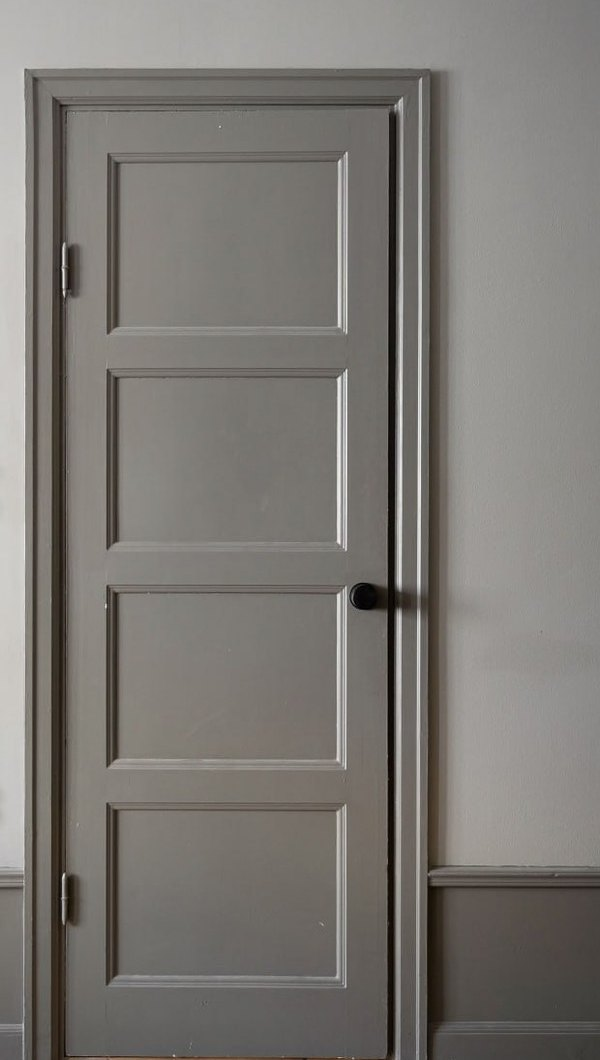
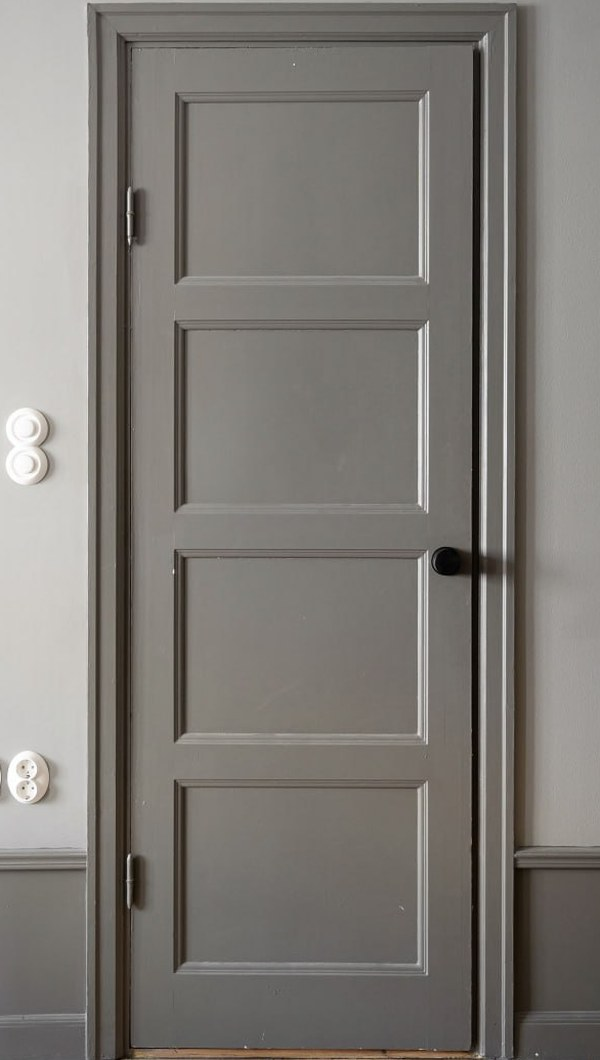
[agent] правка: VELIA — новые двери Lumen 06, Classic 07, слайд, подписи

diff --git a/velia/index.html b/velia/index.html
@@ -68,19 +68,19 @@ html{scroll-behavior:smooth}section,footer{scroll-margin-top:0}.drum h2{position
 @media(max-width:800px){.dc{flex-basis:17vw}.dc:nth-child(n+5){display:none}}
 </style></head><body>
 <div id="splash" class="grad"><div class="lgw"><span class="lg"><svg viewBox="0 0 30 24" aria-hidden="true"><g fill="currentColor"><rect x="0" y="4" width="2" height="20"/><rect x="5" y="2" width="2" height="22"/><rect x="10" y="0" width="2" height="24"/><rect x="15" y="0" width="2" height="24"/><rect x="20" y="2" width="2" height="22"/><rect x="25" y="4" width="2" height="20"/></g></svg><span class="word">Velia</span></span></div><div class="tag">Двери, которые открывают пространство</div></div>
-<section class="hero grad" id="hero"><div class="slides" id="sl"><i style="background-image:url(img/collection_b.jpg)"></i><i style="background-image:url(img/collection_a.jpg)"></i><i style="background-image:url(img/collection_a.jpg);background-position:30% center"></i></div><video id="hv" muted playsinline webkit-playsinline x5-playsinline disablepictureinpicture disableremoteplayback controlslist="nodownload nofullscreen noremoteplayback" preload="auto" poster="img/collection_a.jpg"><source src="video/hero.webm" type="video/webm"><source src="video/hero.mp4" type="video/mp4"></video>
+<section class="hero grad" id="hero"><div class="slides" id="sl"><i style="background-image:url(img/collection_b.jpg)"></i><i style="background-image:url(img/collection_a.jpg)"></i><i style="background-image:url(img/slide_corridor.jpg)"></i></div><video id="hv" muted playsinline webkit-playsinline x5-playsinline disablepictureinpicture disableremoteplayback controlslist="nodownload nofullscreen noremoteplayback" preload="auto" poster="img/collection_a.jpg"><source src="video/hero.webm" type="video/webm"><source src="video/hero.mp4" type="video/mp4"></video>
 <header><nav><a href="#hero">Главная</a><a href="#drum">Каталог</a><a href="#cols">Компания</a><a href="#contacts">Стать дилером</a><a href="#contacts">Контакты</a></nav>
 <span class="lg"><svg viewBox="0 0 30 24" aria-hidden="true"><g fill="currentColor"><rect x="0" y="4" width="2" height="20"/><rect x="5" y="2" width="2" height="22"/><rect x="10" y="0" width="2" height="24"/><rect x="15" y="0" width="2" height="24"/><rect x="20" y="2" width="2" height="22"/><rect x="25" y="4" width="2" height="20"/></g></svg><span class="word">Velia</span></span>
 <div class="ic"><a href="#" aria-label="Поиск"><svg viewBox="0 0 24 24"><circle cx="10.5" cy="10.5" r="6.5"/><path d="M15.5 15.5L21 21"/></svg></a><a href="#" aria-label="Личный кабинет"><svg viewBox="0 0 24 24"><circle cx="12" cy="8" r="4"/><path d="M4 21c0-4.5 3.5-7 8-7s8 2.5 8 7"/></svg></a></div></header>
 <div><h1>Дверь — это начало<br>любого пространства</h1><p>Коллекции 2026</p></div><div class="scroll"></div></section>
 <section class="cols" id="cols"><div class="col a"><div class="door"></div><div class="name"><span>Aria</span></div></div><div class="col b"><div class="door"></div><div class="name"><span>Nord</span></div></div></section>
 <section class="drum grad" id="drum"><h2>Модели — прокрутите, двери меняются</h2><div class="dw" id="dw"></div></section>
-<footer id="contacts">Velia doors · учебный демо-концепт, вымышленный бренд<br><span style="font-size:10px;opacity:.7;letter-spacing:.12em">Фото: Max Vakhtbovych, Lisa Anna — Pexels. Видео и логотип созданы для демо.</span></footer>
+<footer id="contacts">Velia doors · учебный демо-концепт, вымышленный бренд<br><span style="font-size:10px;opacity:.7;letter-spacing:.12em">Фото: Max Vakhtbovych, Lisa Anna, Andrea De Santis, Алан Албегов — Pexels. Видео и логотип созданы для демо.</span></footer>
 <script>
-(function(){const names=['Aria 01','Nord 02','Onyx 03','Sand 04','Pine 05'],cls=['c1','c2','c3','c4','c5'];
+(function(){const names=['Aria 01','Nord 02','Onyx 03','Sand 04','Pine 05','Lumen 06','Classic 07'],cls=['c1','c2','c3','c4','c5','c6','c7'];
 const dw=document.getElementById('dw'),belts=[];
 for(let i=0;i<6;i++){const c=document.createElement('div');c.className='dc';const b=document.createElement('div');b.className='db';
-const list=[];for(let k=0;k<6;k++)list.push((k+i*2)%5);const all=list.concat(list);
+const list=[];for(let k=0;k<6;k++)list.push((k+i*2)%7);const all=list.concat(list);
 all.forEach(n=>{const a=document.createElement('a');a.href='model.html?m='+n;a.className='dd '+cls[n];a.style.backgroundImage='url(img/door_'+cls[n]+'.jpg)';a.innerHTML='<span>'+names[n]+'</span>';b.appendChild(a)});
 c.appendChild(b);dw.appendChild(c);belts.push({b,dir:i%2?-1:1,sp:0.25+i*0.09})}
 let t=0,hover=false;dw.addEventListener('mouseenter',()=>hover=true);dw.addEventListener('mouseleave',()=>hover=false);

diff --git a/velia/model.html b/velia/model.html
@@ -13,14 +13,16 @@ p{color:#cfdcd6;line-height:1.7;max-width:460px}table{margin:26px 0;border-colla
 </style></head><body>
 <header><a href="index.html#drum">← К моделям</a><span class="lg"><svg viewBox="0 0 30 24"><g fill="currentColor"><rect x="0" y="4" width="2" height="20"/><rect x="5" y="2" width="2" height="22"/><rect x="10" y="0" width="2" height="24"/><rect x="15" y="0" width="2" height="24"/><rect x="20" y="2" width="2" height="22"/><rect x="25" y="4" width="2" height="20"/></g></svg>Velia</span><span></span></header>
 <main><div class="ph"><img id="im" alt=""></div><div><div class="sm" id="co"></div><h1 id="nm"></h1><p id="ds"></p>
-<table id="tb"></table><a class="btn" href="index.html#drum">Узнать цену у дилера</a><div class="n">Учебный демо-концепт, вымышленный бренд. Характеристики условные. Фото: Max Vakhtbovych, Lisa Anna — Pexels.</div></div></main>
+<table id="tb"></table><a class="btn" href="index.html#drum">Узнать цену у дилера</a><div class="n">Учебный демо-концепт, вымышленный бренд. Характеристики условные. Фото: Max Vakhtbovych, Lisa Anna, Andrea De Santis, Алан Албегов — Pexels.</div></div></main>
 <script>
 const M=[['Aria 01','Коллекция Aria','Спокойный серый цвет с четырьмя филёнками. Классическая форма для светлых и тёплых интерьеров.','Эмаль, филёнки','2000 × 800 мм'],
 ['Nord 02','Коллекция Nord','Гладкое полотно с рисунком тёплого ореха в раме из того же дерева. Лаконичная дверь без лишнего.','Шпон ореха','2000 × 800 мм'],
 ['Onyx 03','Коллекция Nord','Глубокий тёмный цвет венге и пять горизонтальных филёнок. Выразительная дверь для современных пространств.','Шпон венге, филёнки','2100 × 900 мм'],
 ['Sand 04','Коллекция Aria','Тёплое светлое дерево с горизонтальными планками. Делает прихожую уютной и по-домашнему светлой.','Шпон тика','2000 × 800 мм'],
-['Pine 05','Коллекция Nord','Орех с вертикальной вставкой матового стекла: пропускает свет и не теряет приватности.','Шпон ореха, матовое стекло','2000 × 800 мм']];
-const k=Math.min(4,Math.max(0,+new URLSearchParams(location.search).get('m')||0)),d=M[k];
+['Pine 05','Коллекция Nord','Орех с вертикальной вставкой матового стекла: пропускает свет и не теряет приватности.','Шпон ореха, матовое стекло','2000 × 800 мм'],
+['Lumen 06','Коллекция Nord','Двустворчатая дверь с матовым стеклом в тёмной раме. Мягкий рассеянный свет и длинные латунные ручки для просторных комнат.','Матовое стекло, тёмная рама','2000 × 1400 мм','латунь'],
+['Classic 07','Коллекция Aria','Двустворчатая дверь из тёмного дуба с наличниками и стёклами с ромбовидным узором. Классика для тёплых интерьеров.','Шпон дуба, узорное стекло','2100 × 1200 мм']];
+const k=Math.min(6,Math.max(0,+new URLSearchParams(location.search).get('m')||0)),d=M[k];
 document.title='VELIA — '+d[0];im.src='img/door_c'+(k+1)+'.jpg';im.alt=d[0];co.textContent=d[1];nm.textContent=d[0];ds.textContent=d[2];
-tb.innerHTML='<tr><td>Покрытие</td><td>'+d[3]+'</td></tr><tr><td>Размер</td><td>'+d[4]+'</td></tr><tr><td>Ручка</td><td>хром</td></tr>';
+tb.innerHTML='<tr><td>Покрытие</td><td>'+d[3]+'</td></tr><tr><td>Размер</td><td>'+d[4]+'</td></tr><tr><td>Ручка</td><td>'+(d[5]||'хром')+'</td></tr>';
 </script></body></html>
